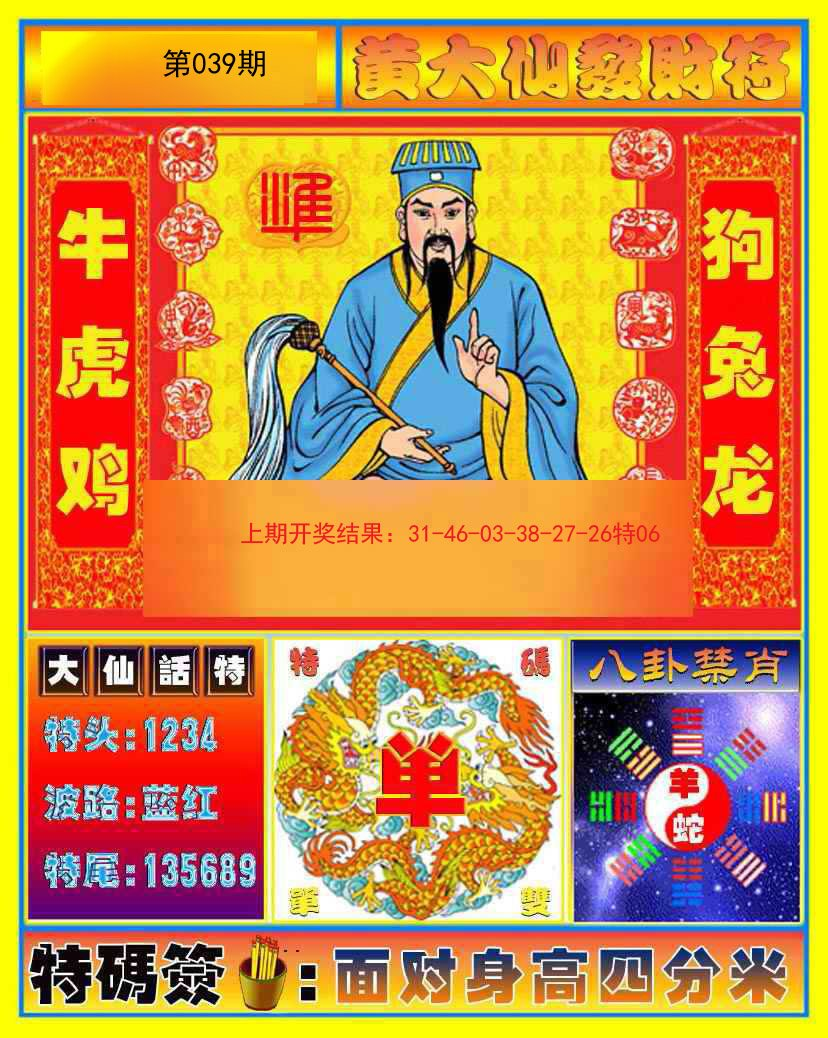
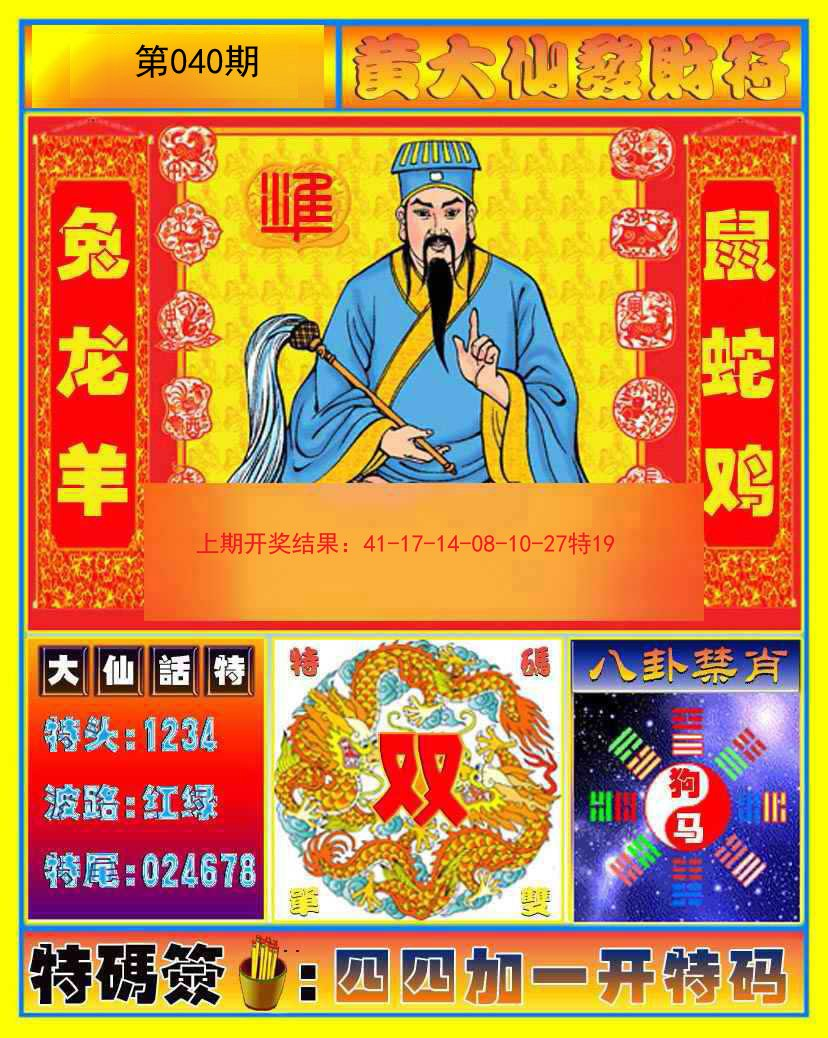
Update:  2024.02.09 01:21:01

diff --git a/Script/Src/xjw/管家婆解析.js b/Script/Src/xjw/管家婆解析.js
@@ -27,8 +27,17 @@ document.writeln("<table border=\'1\' width=\'100%\' cellpadding=\'0\' cellspaci
 
 document.writeln("<tr><td class=\'center f11 black l150\' align=\'center\'>");
 document.writeln("<p align=\'left\'>");
-document.writeln("<span><font size=\'4\'>039期:<font color=\'#008000\'>【精解管家婆一句赢大钱】</font><font color=\'#FF0000\'>开？00</font><font color=\'#008000\'><br>");
-document.writeln("</font><font color=\'#6600CC\'>精解九肖：鼠龙蛇马狗猪羊猴鸡<br></font></font>");
+document.writeln("<span><font size=\'4\'>040期:<font color=\'#008000\'>【精解管家婆一句赢大钱】</font><font color=\'#FF0000\'>开？00</font><font color=\'#008000\'><br>");
+document.writeln("</font><font color=\'#6600CC\'>精解九肖：兔龙蛇马羊猴鼠牛虎<br></font></font>");
+document.writeln("<font color=\'#FF0000\' size=\'4\'>精解18码：</font><font color=\'#0000FF\' size=\'4\'> 25.37.24.36.11.23.34.46.33.45.08.32.28.16.39.27.14.38<br></font>");
+document.writeln("</td></tr>");
+document.writeln("");
+document.writeln("");
+
+document.writeln("<tr><td class=\'center f11 black l150\' align=\'center\'>");
+document.writeln("<p align=\'left\'>");
+document.writeln("<span><font size=\'4\'>039期:<font color=\'#008000\'>【精解管家婆一句赢大钱】</font><font color=\'#FF0000\'>开鸡19</font><font color=\'#008000\'><br>");
+document.writeln("</font><font color=\'#6600CC\'>精解九肖：鼠龙蛇马狗猪羊猴<span style=\'background-color: #FFFF00\'>鸡</span><br></font></font>");
 document.writeln("<font color=\'#FF0000\' size=\'4\'>精解18码：</font><font color=\'#0000FF\' size=\'4\'>40.28.12.48.11.23.34.46.18.30.05.17.33.45.08.32.07.43<br></font>");
 document.writeln("</td></tr>");
 
